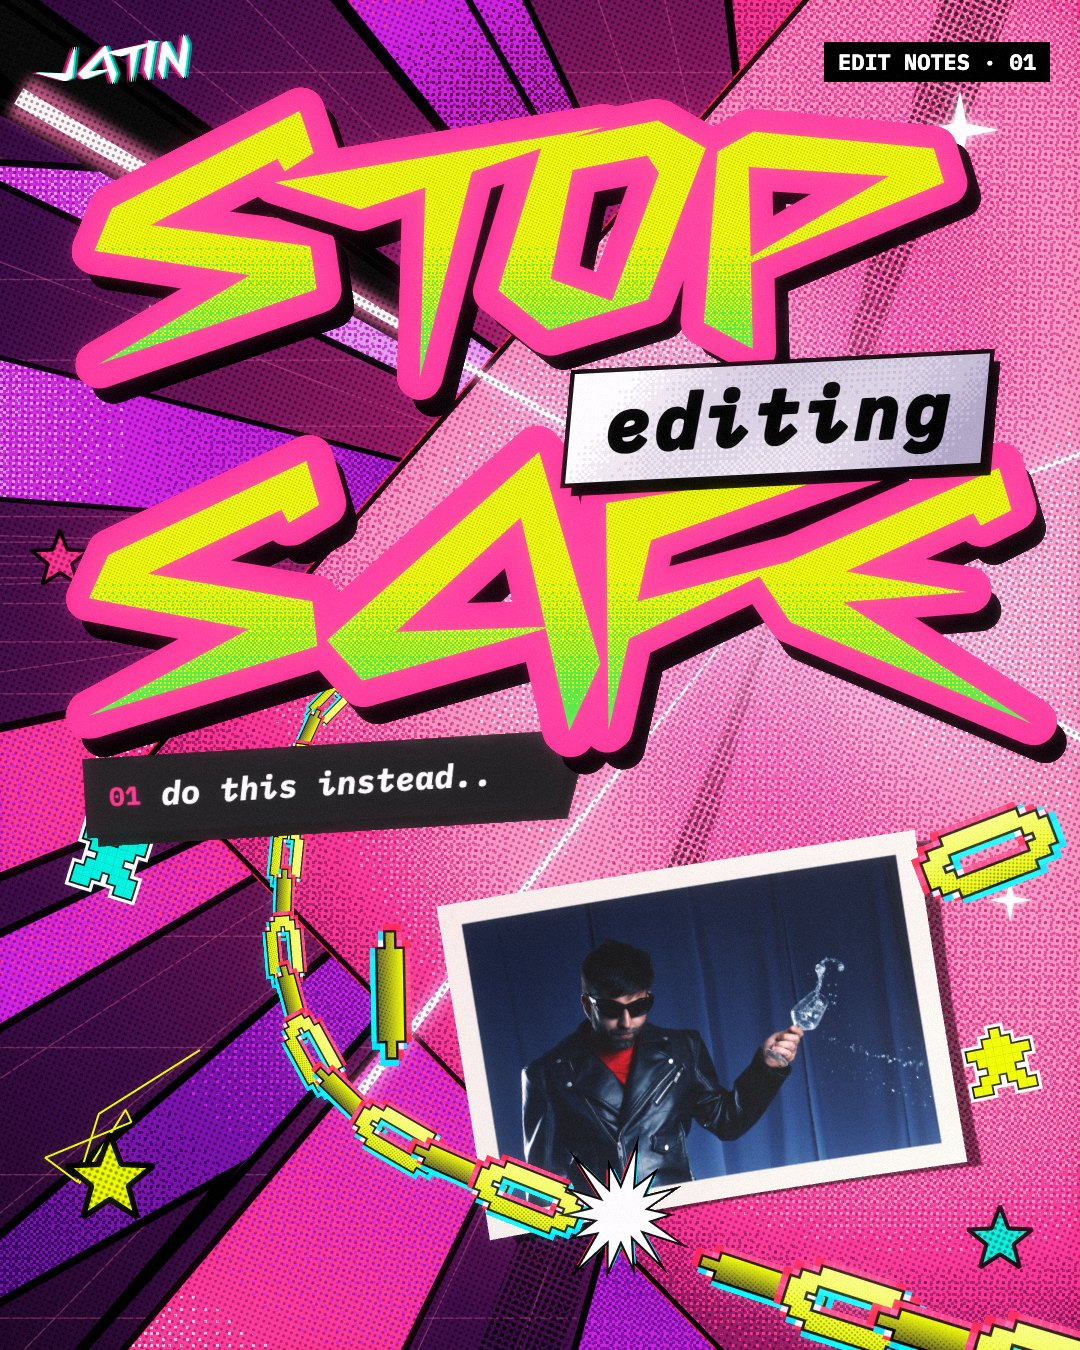
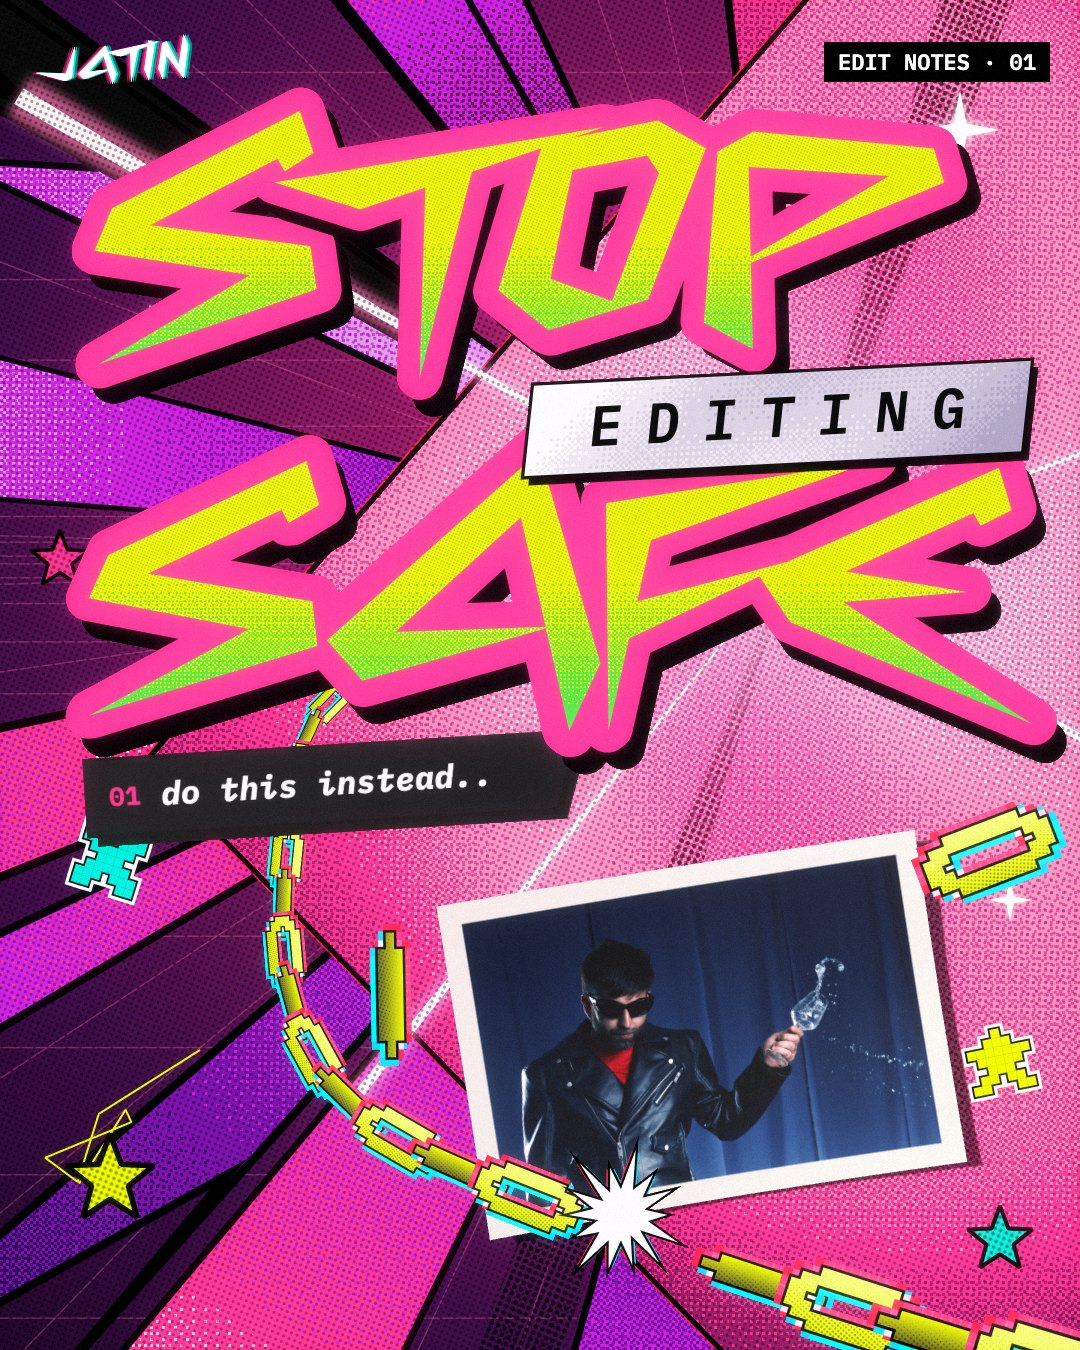
Content look round 6: silver plates use the WHO I AM tag type

Changed region(s): [[0.4583, 0.2489, 0.9778, 0.3733]]

diff --git a/docs/studio/studio.html b/docs/studio/studio.html
@@ -2,7 +2,7 @@
 <meta charset="utf-8">
 <title>JATIN studio</title>
 <!-- Dev-only still renderer for posts and reel frames. Never ships. three.js r128 from cdnjs. -->
-<link rel="stylesheet" href="https://fonts.googleapis.com/css2?family=IBM+Plex+Mono:ital,wght@0,500;0,700;1,700&family=VT323&display=swap">
+<link rel="stylesheet" href="https://fonts.googleapis.com/css2?family=IBM+Plex+Mono:ital,wght@0,500;0,600;0,700;1,700&family=VT323&display=swap">
 <style>
 @font-face{font-family:"Cyberway Riders";src:url(../../CyberwayRiders-lg97d.ttf) format("truetype")}
 html,body{margin:0;background:#111}
@@ -37,16 +37,19 @@ const W=root=>root;
 function dotTile(px,alpha){const c=mk(px,px),x=c.getContext('2d');x.fillStyle=`rgba(0,0,0,${alpha})`;x.beginPath();x.arc(px/2,px/2,px*.28,0,7);x.fill();return c}
 function dotPattern(ctx,px,alpha,ang=23){const p=ctx.createPattern(dotTile(px,alpha),'repeat');p.setTransform(new DOMMatrix().rotate(ang));return p}
 function glyphRun(text,font,size,track){
-  const c=mk(8,8).getContext('2d');c.font=font.startsWith('italic')?font.replace('italic 700 ',`italic 700 ${size}px `):`${size}px ${font}`;let x=0;const g=[];
+  const c=mk(8,8).getContext('2d');c.font=font.startsWith('italic')?font.replace('italic 700 ',`italic 700 ${size}px `):/^\d00 /.test(font)?font.replace(/^(\d00) /,`$1 ${size}px `):`${size}px ${font}`;let x=0;const g=[];
   for(const ch of text){const w=c.measureText(ch).width;g.push({ch,x,w});x+=w+track*size}
   return{g,w:x-track*size};
 }
 // The site's silver plate (ABOUT's name tag and copy plate, round 5 of the posts, his ask): paper dithered into the
 // silver ramp (white -> lavender grey, DitherFX's light-shape ramp) in 3px Bayer cells, skewed, an ink rule, a hard
 // ink drop, and ink type in Plex Mono italic 700, fattened with an ink stroke so it reads bold.
+// Round 6 (his note: the bold "doe'snt look", use the WHO I AM font): the type is #wedgeSub's exactly: Plex Mono 600,
+// upright, uppercase, tracked .42em, slanted only by the plate's own skew (-9deg). No faux-bold stroke.
 function silverPlate(O,text,cx,cy,size,rot,cw){
-  const font=`italic 700 ${size}px "IBM Plex Mono"`,track=size*.06,run=glyphRun(text,'italic 700 "IBM Plex Mono"',size,.06);
-  const padX=size*.5,padY=size*.3,w=run.w+padX*2,h=size*.9+padY*2,cell=Math.max(3,Math.round(cw/360)),sk=Math.tan(-8*Math.PI/180);
+  text=text.toUpperCase();
+  const font=`600 ${size}px "IBM Plex Mono"`,run=glyphRun(text,'600 "IBM Plex Mono"',size,.42);
+  const padX=size*1.1,padY=size*.42,w=run.w+padX*2,h=size*.82+padY*2,cell=Math.max(3,Math.round(cw/360)),sk=Math.tan(-9*Math.PI/180);
   const lw=Math.ceil(w/cell),lh=Math.ceil(h/cell),dc=mk(lw,lh),dx=dc.getContext('2d'),im=dx.createImageData(lw,lh),d=im.data;
   const W=[255,255,255],lo=[171,165,196],ramp=[lo,[213,210,226],W,W,W].map((c,i)=>i<3?c:W);
   const RAMP5=[[171,165,196],[192,188,212],[213,210,226],[234,232,240],[255,255,255]];
@@ -59,9 +62,8 @@ function silverPlate(O,text,cx,cy,size,rot,cw){
   O.fillStyle='#000';O.fillRect(-w/2+size*.12,-h/2+size*.14,w,h);
   O.imageSmoothingEnabled=false;O.drawImage(dc,-w/2,-h/2,w,h);O.imageSmoothingEnabled=true;
   O.lineWidth=Math.max(4,size*.06);O.strokeStyle='#000';O.strokeRect(-w/2,-h/2,w,h);
-  O.transform(1,0,-sk*.5,1,0,0);O.font=font;O.textBaseline='middle';O.textAlign='left';O.lineJoin='round';
-  O.fillStyle='#000';O.strokeStyle='#000';O.lineWidth=size*.05;
-  run.g.forEach(g=>{O.strokeText(g.ch,-run.w/2+g.x,size*.04);O.fillText(g.ch,-run.w/2+g.x,size*.04)});
+  O.font=font;O.textBaseline='middle';O.textAlign='left';O.fillStyle='#000';
+  run.g.forEach(g=>O.fillText(g.ch,-run.w/2+g.x,size*.04));
   O.restore();
 }
 function paintType(cw,ch,lines,opt={}){
@@ -450,7 +452,7 @@ DRAFTS.p1=async()=>{ // STOP editing SAFE — pink world; the chain comes out of
   const [dc,dx]=frameCanvas();[[0,-210,-230,1.2],[1,310,-400,-.7]].forEach(([n,ox,oy,da])=>{const l=links[brk+n];chLink(dx,l.i,l.x+ox,l.y+oy,l.a+da,l.c*1.1,pal)});SCN.add(framePlane(dc,1.9));
   const T=worldType(acc,[
     {t:'STOP',size:.27,x:.48,y:.185,rot:-.07,seed:3},
-    {t:'editing',style:'plate',size:.07,x:.72,y:.31,rot:-.05,seed:5},
+    {t:'editing',style:'plate',size:.052,x:.72,y:.31,rot:-.05,seed:5},
     {t:'SAFE',size:.28,x:.5,y:.435,rot:.04,seed:9}
   ]);
   SCN.add(framePlane(T,.9));
@@ -472,7 +474,7 @@ DRAFTS.p2=async()=>{ // FRAMES i almost DELETED — cyan world; the stack sits i
   const [ux,uz]=at(800,760,2.2);cur.position.set(ux,2.2,uz);cur.rotation.set(-1.15,0,-.35);SCN.add(cur);
   const T=worldType(acc,[
     {t:'FRAMES',size:.185,x:.52,y:.16,rot:-.05,seed:11},
-    {t:'i almost',style:'plate',size:.07,x:.26,y:.75,rot:-.06,seed:2},
+    {t:'i almost',style:'plate',size:.052,x:.28,y:.75,rot:-.06,seed:2},
     {t:'DELETED',size:.19,x:.5,y:.87,rot:.05,seed:21}
   ]);
   SCN.add(framePlane(T,1.5));
@@ -486,7 +488,7 @@ DRAFTS.p3=async()=>{ // CUT IT in one NIGHT — acid world; the light comes out 
     pixels:[[1010,1120,PAL.pink,1,.25],[70,1250,PAL.cyan,0,-.2]],scribbles:[[120,760,'#ff2e88'],[900,1120,'#00f0d8']]});
   const T=worldType(acc,[
     {t:'CUT IT',size:.25,x:.49,y:.17,rot:-.06,seed:4},
-    {t:'in one',style:'plate',size:.068,x:.76,y:.285,rot:-.05,seed:8},
+    {t:'in one',style:'plate',size:.052,x:.76,y:.285,rot:-.05,seed:8},
     {t:'NIGHT',size:.25,x:.5,y:.385,rot:.04,seed:6}
   ]);
   SCN.add(framePlane(T,1.2));

diff --git a/docs/concepts/2026-11-09-content-look/index.html b/docs/concepts/2026-11-09-content-look/index.html
@@ -40,9 +40,27 @@ figcaption b{color:var(--fg)}
 </style>
 
 <main class="wrap">
-  <p class="lbl">justjatin · content look · round 5 · posts · 10 nov 2026</p>
+  <p class="lbl">justjatin · content look · round 6 · posts · 10 nov 2026</p>
   <h1>Your language, at their production level</h1>
   <p class="lede">Only the design and craft of your four references were looked at, never the topic. Below: what makes them land, how each move maps onto your language, and ten first drafts (3 posts, 7 reel frames). The drafts are rendered in a real 3D lighting pass with your own photos, not drawn flat.</p>
+
+  <h2>Round 6 · the WHO I AM type</h2>
+  <p>Your note: <i>"use the same font as the WHO I AM text and bold doe'snt look"</i>.</p>
+  <ul class="fix">
+    <li><b>The plate type is the WHO I AM tag's exactly:</b> IBM Plex Mono 600, upright, uppercase, tracked wide (.42em), slanted only by the plate's own skew. Same as the menu's tag.</li>
+    <li><b>The fake bold is gone.</b> No extra outline stroke; the letterforms stay clean.</li>
+  </ul>
+  <div class="posts">
+    <figure><img src="img/p1.jpg" width="1080" height="1350" alt="Round 6 post: STOP EDITING SAFE, EDITING on a silver plate in tracked uppercase mono"><figcaption><b>STOP editing SAFE.</b></figcaption></figure>
+    <figure><img src="img/p2.jpg" width="1080" height="1350" alt="Round 6 post: FRAMES I ALMOST DELETED, I ALMOST on a silver plate in tracked uppercase mono"><figcaption><b>FRAMES i almost DELETED.</b></figcaption></figure>
+    <figure><img src="img/p3.jpg" width="1080" height="1350" alt="Round 6 post: CUT IT IN ONE NIGHT, IN ONE on a silver plate in tracked uppercase mono"><figcaption><b>CUT IT in one NIGHT.</b></figcaption></figure>
+  </div>
+  <p class="lbl" style="margin-top:28px">Round 5, for comparison</p>
+  <div class="ba">
+    <figure><img src="img/p1-round5.jpg" width="1080" height="1350" alt="Round 5 STOP editing SAFE with bold italic plate type" loading="lazy"><figcaption>R5</figcaption></figure>
+    <figure><img src="img/p2-round5.jpg" width="1080" height="1350" alt="Round 5 FRAMES i almost DELETED with bold italic plate type" loading="lazy"><figcaption>R5</figcaption></figure>
+    <figure><img src="img/p3-round5.jpg" width="1080" height="1350" alt="Round 5 CUT IT in one NIGHT with bold italic plate type" loading="lazy"><figcaption>R5</figcaption></figure>
+  </div>
 
   <h2>Round 5 · silver plates, round 3 type colours</h2>
   <p>Your notes: <i>"switch these normal font's to our silver plate look but make the text look bold"</i>, then <i>"also keep the old font colour scheme from R3"</i>.</p>
@@ -51,11 +69,6 @@ figcaption b{color:var(--fg)}
     <li><b>The words are bold:</b> ink Plex Mono italic 700, thickened with an ink stroke.</li>
     <li><b>Headlines are back to round 3's colours</b> on every world: acid fill, green foot, pink rim. The dithered one-colour shards from round 4 stay.</li>
   </ul>
-  <div class="posts">
-    <figure><img src="img/p1.jpg" width="1080" height="1350" alt="Round 5 post: STOP editing SAFE, editing on a silver dithered plate in bold ink type, acid and pink headline over pink dithered shards"><figcaption><b>STOP editing SAFE.</b></figcaption></figure>
-    <figure><img src="img/p2.jpg" width="1080" height="1350" alt="Round 5 post: FRAMES i almost DELETED, i almost on a silver plate, acid and pink headline over cyan dithered shards"><figcaption><b>FRAMES i almost DELETED.</b></figcaption></figure>
-    <figure><img src="img/p3.jpg" width="1080" height="1350" alt="Round 5 post: CUT IT in one NIGHT, in one on a silver plate, acid and pink headline over acid dithered shards"><figcaption><b>CUT IT in one NIGHT.</b></figcaption></figure>
-  </div>
   <p class="lbl" style="margin-top:28px">Round 4, for comparison</p>
   <div class="ba">
     <figure><img src="img/p1-round4.jpg" width="1080" height="1350" alt="Round 4 STOP editing SAFE with cyan-rimmed type" loading="lazy"><figcaption>R4</figcaption></figure>

diff --git a/docs/concepts/2026-11-09-content-look/README.md b/docs/concepts/2026-11-09-content-look/README.md
@@ -128,3 +128,13 @@ the mono words, with the ABOUT "WHO I AM" tag as the reference), then "and also 
   pairs were reverted. The dithered one-family shards stay.
 
 **Stills:** round 4 is `img/p*-round4.jpg`; round 5 is `img/p*.jpg`.
+
+## Round 6 — 2026-11-10 · the WHO I AM type
+
+**His note, in his words:** "ok use the same font as the WHO I AM text and bold doe'snt look".
+
+**Built:** the plate type is now `#wedgeSub`'s exactly: IBM Plex Mono 600, upright, uppercase, tracked .42em, slanted
+only by the plate's skew (−9°, as on the site), with padding in the tag's proportions. The faux-bold ink stroke is
+gone. The plate size is down to .052 of the width, since the tracking makes the run long.
+
+**Stills:** round 5 is `img/p*-round5.jpg`; round 6 is `img/p*.jpg`.

diff --git a/docs/HANDOFF.md b/docs/HANDOFF.md
@@ -3,6 +3,12 @@
 Newest on top. Each entry: date · did · in flight · next · watch out.
 
 ---
+## 2026-11-10 — Content look round 6 (WHO I AM type on the plates)
+- **His note:** use the WHO I AM font; the bold didn't look right.
+- **Did:** `silverPlate` uses #wedgeSub's type; faux bold removed; doc v6 (same URL), round 5 stills kept.
+- **Next:** his notes; the CRT → beige computer; then the reels.
+
+---
 ## 2026-11-10 — Content look round 5 (silver plates)
 - **His notes:** small mono words → the site's silver plate, bold; keep R3's headline colours.
 - **Did:** `silverPlate()` / style `plate`; `R3TYPE` on every world; doc v5 (same URL), round 4 stills kept.

diff --git a/docs/process/JOURNAL.md b/docs/process/JOURNAL.md
@@ -12,6 +12,12 @@ by piece and marked "Oct 2026".
 
 
 
+
+## 2026-11-10 (later still) — the plates speak like the menu tag
+
+The bold italic on the silver plates didn't sit right with him. He pointed at WHO I AM, the menu's own tag, so the
+plates now use its voice: upright mono, all caps, wide tracking, leaning only because the plate leans. The faux-bold
+stroke is gone. The small words now read like a label the site would print, not like body copy.
 ## 2026-11-10 (later) — the small words get the silver plate
 
 He pointed at the plain mono words ("editing", "i almost", "in one") and the ABOUT name tag, and asked for that silver
